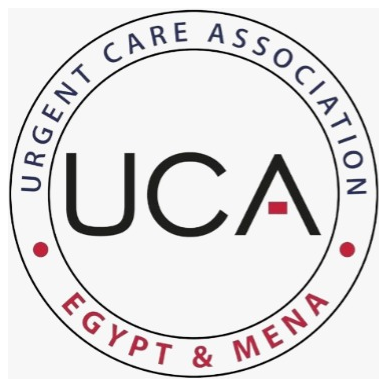
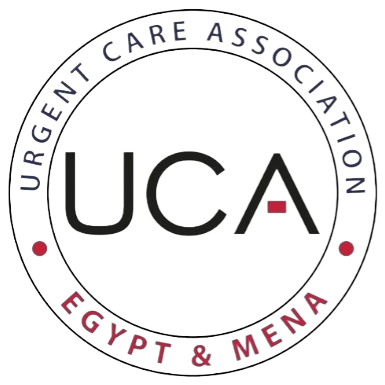
24/7 Clinic: UCA mark from the transparent original

diff --git a/build.js b/build.js
@@ -107,10 +107,13 @@ const ASSETS = {
   C7RESORTSTEIG: 'px-resort-steig.webp',
   C7RESORTAMWAJ: 'px-resort-amwaj.webp',
 
-  /* Accreditation marks, supplied 2026-09-10 with permission to use. Trimmed
-     and their ground flood filled to pure white, nothing else touched: a
-     certification mark is not ours to redraw. All three are JPEGs with no
-     transparency, which is why the band they sit in is white. */
+  /* Accreditation marks, supplied 2026-09-10 with permission to use. Trimmed,
+     nothing else touched: a certification mark is not ours to redraw.
+
+     UCA came as a transparent PNG and is used as supplied. GHA and GMWA came as
+     flat JPEGs on white, so their ground was flood filled to pure white to kill
+     the near-white fringe. That is why the band they all sit in is white. Send
+     those two through with transparency and the band can take any colour. */
   C7ACCUCA: 'c7acc-uca.png',
   C7ACCGHA: 'c7acc-gha.png',
   C7ACCGMWA: 'c7acc-gmwa.png',

diff --git a/docs/247clinic-brief-alignment.md b/docs/247clinic-brief-alignment.md
@@ -91,9 +91,10 @@ Each carries a small caption naming the body and nothing else. An unexplained
 roundel tells a guest nothing, and a caption that only names the issuer makes no
 claim about what the mark means, which is what section 23 requires.
 
-The band is white rather than the brand pink. All three files are flat JPEGs
-with a white ground and no transparency, so a coloured band would put a white
-box behind every one. White is also the safest ground under most certification
+The band is white rather than the brand pink. UCA came through as a transparent
+PNG and is used exactly as supplied. GHA and GMWA are flat JPEGs on white, so a
+coloured band would put a white box behind those two. Send those two with
+transparency and the band can take any colour we like. White is also the safest ground under most certification
 mark usage rules. The marks were trimmed and their ground flood filled to pure
 white; nothing else was touched, because a certification mark is not ours to
 redraw.
@@ -161,6 +162,8 @@ Unchanged from the open items list, plus two from the new brief.
    - confirmation that the UCA chapter mark is the right one to show, or the
      accreditation seal if a separate one exists;
    - a larger GHA file if one exists, the supplied one is 200px square;
+   - GHA and GMWA as transparent PNGs, like the UCA one, which would free the
+     band from having to be white;
    - confirmation that the sentence now on the page is the approved wording.
 3. Confirmation of the years, the clinic count and the patient numbers.
 4. The real WhatsApp number for each clinic, not one shared placeholder.
